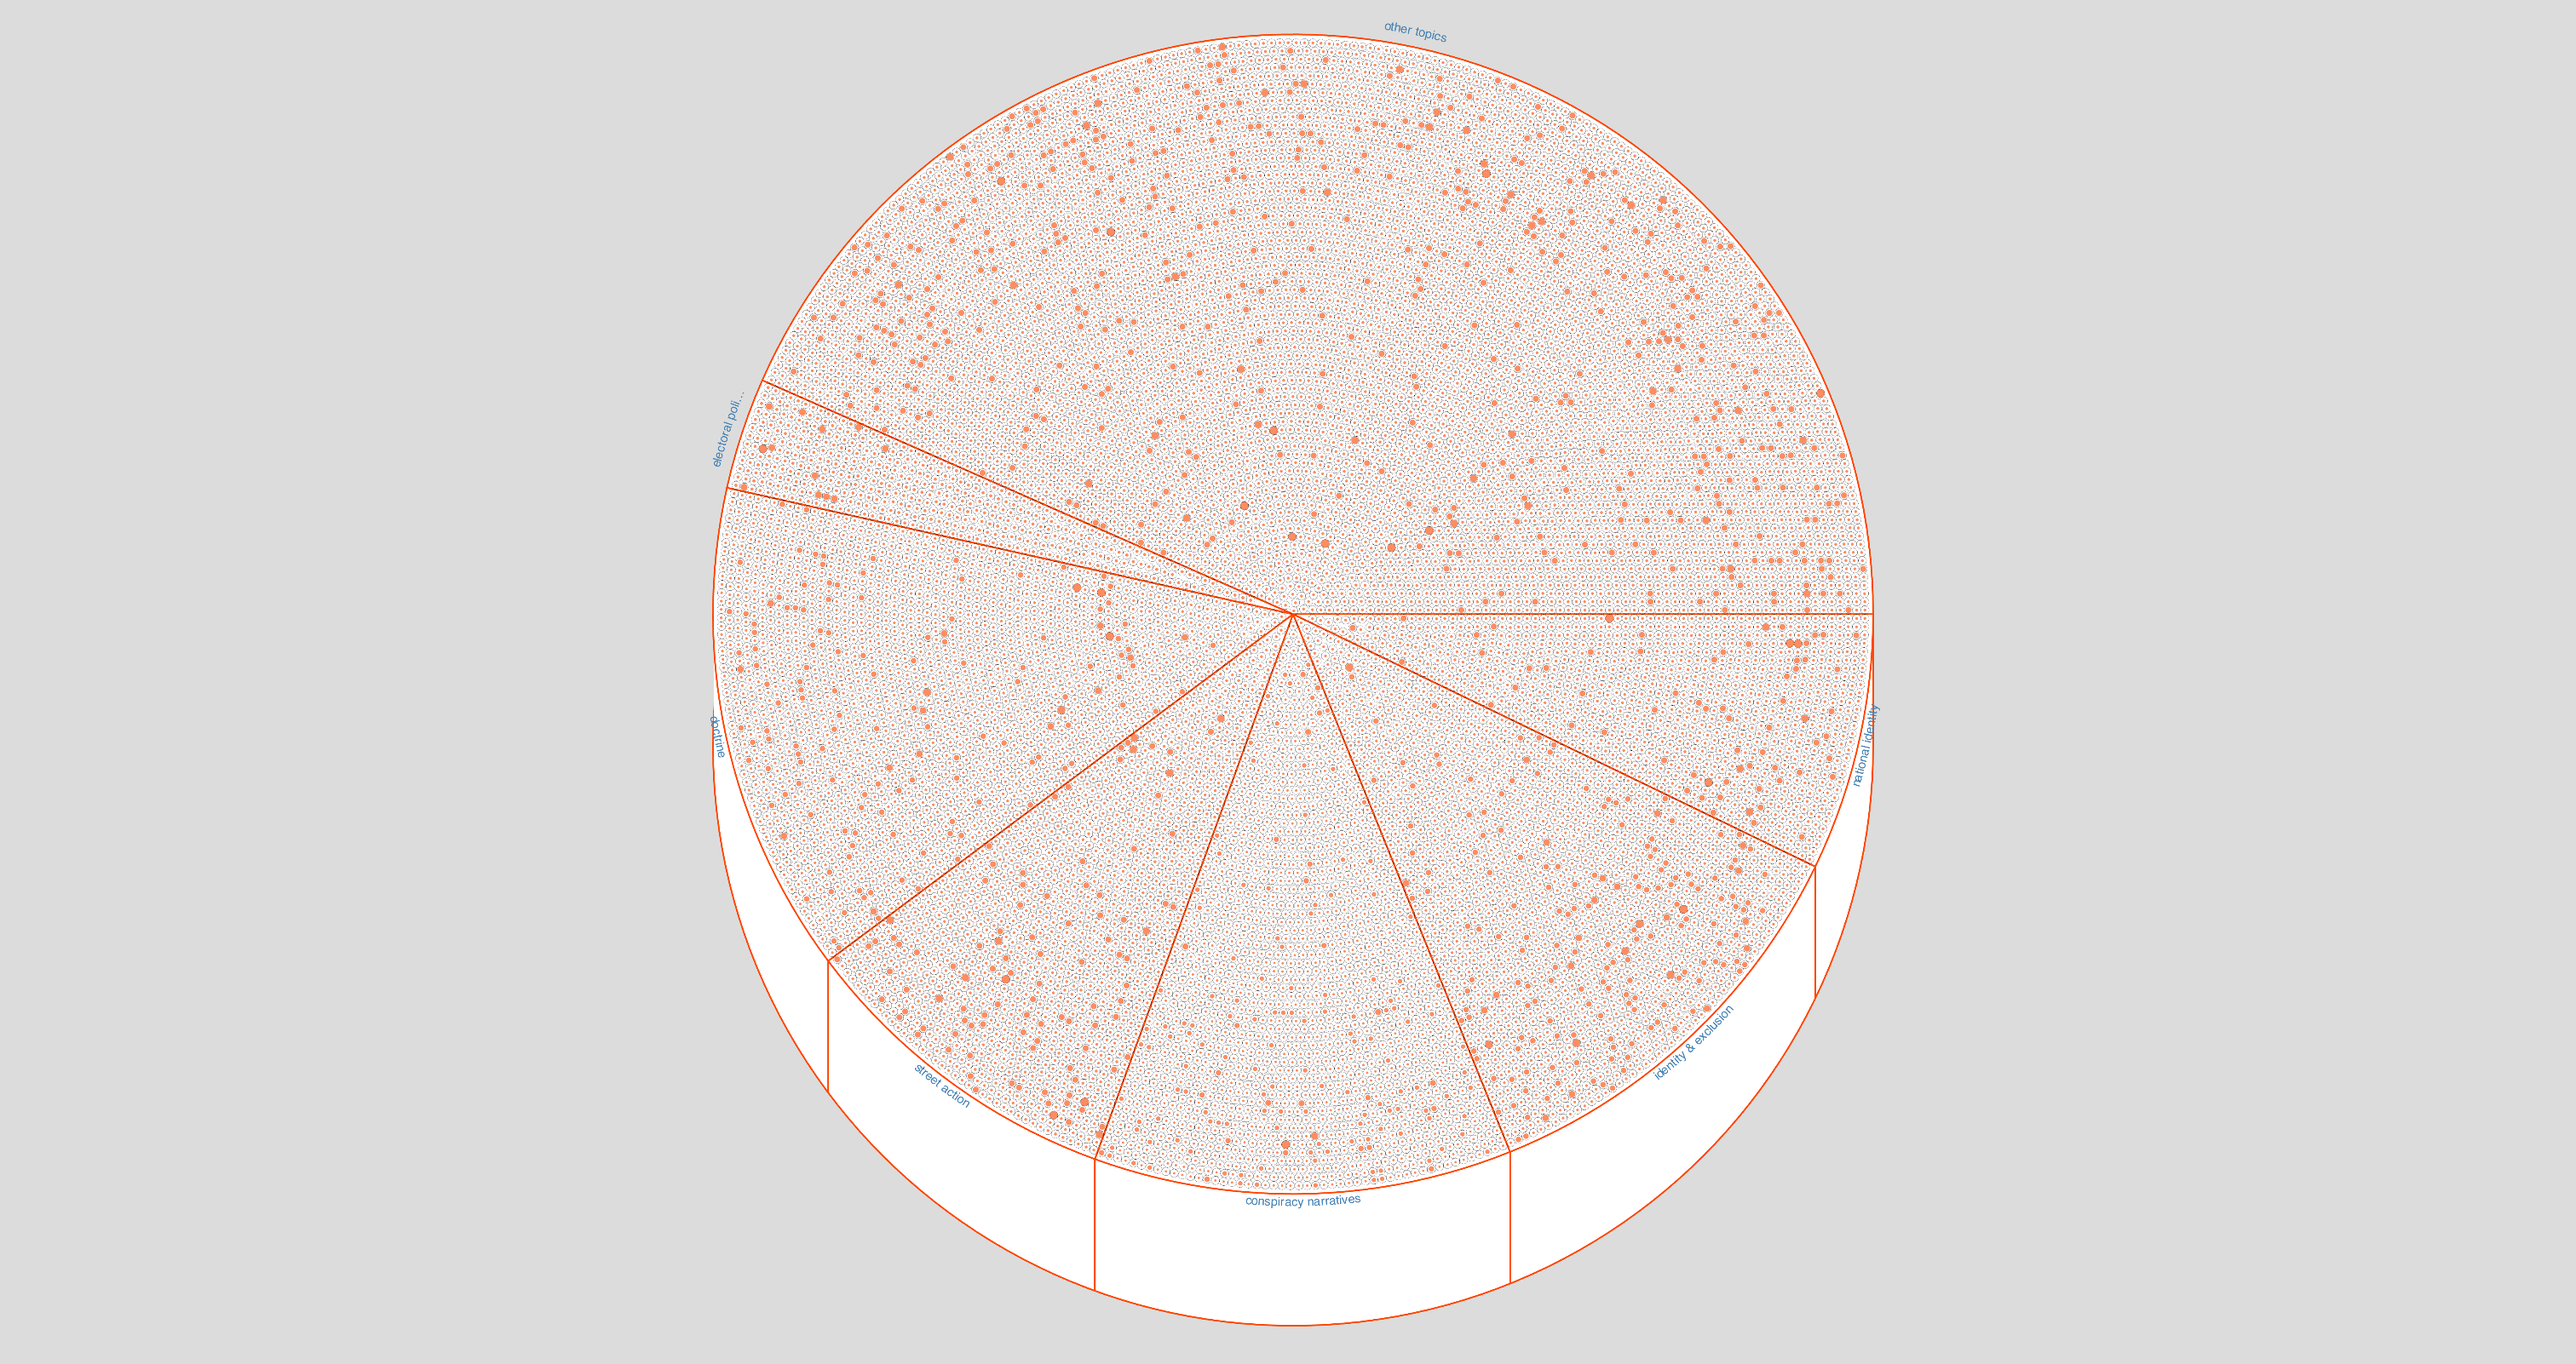
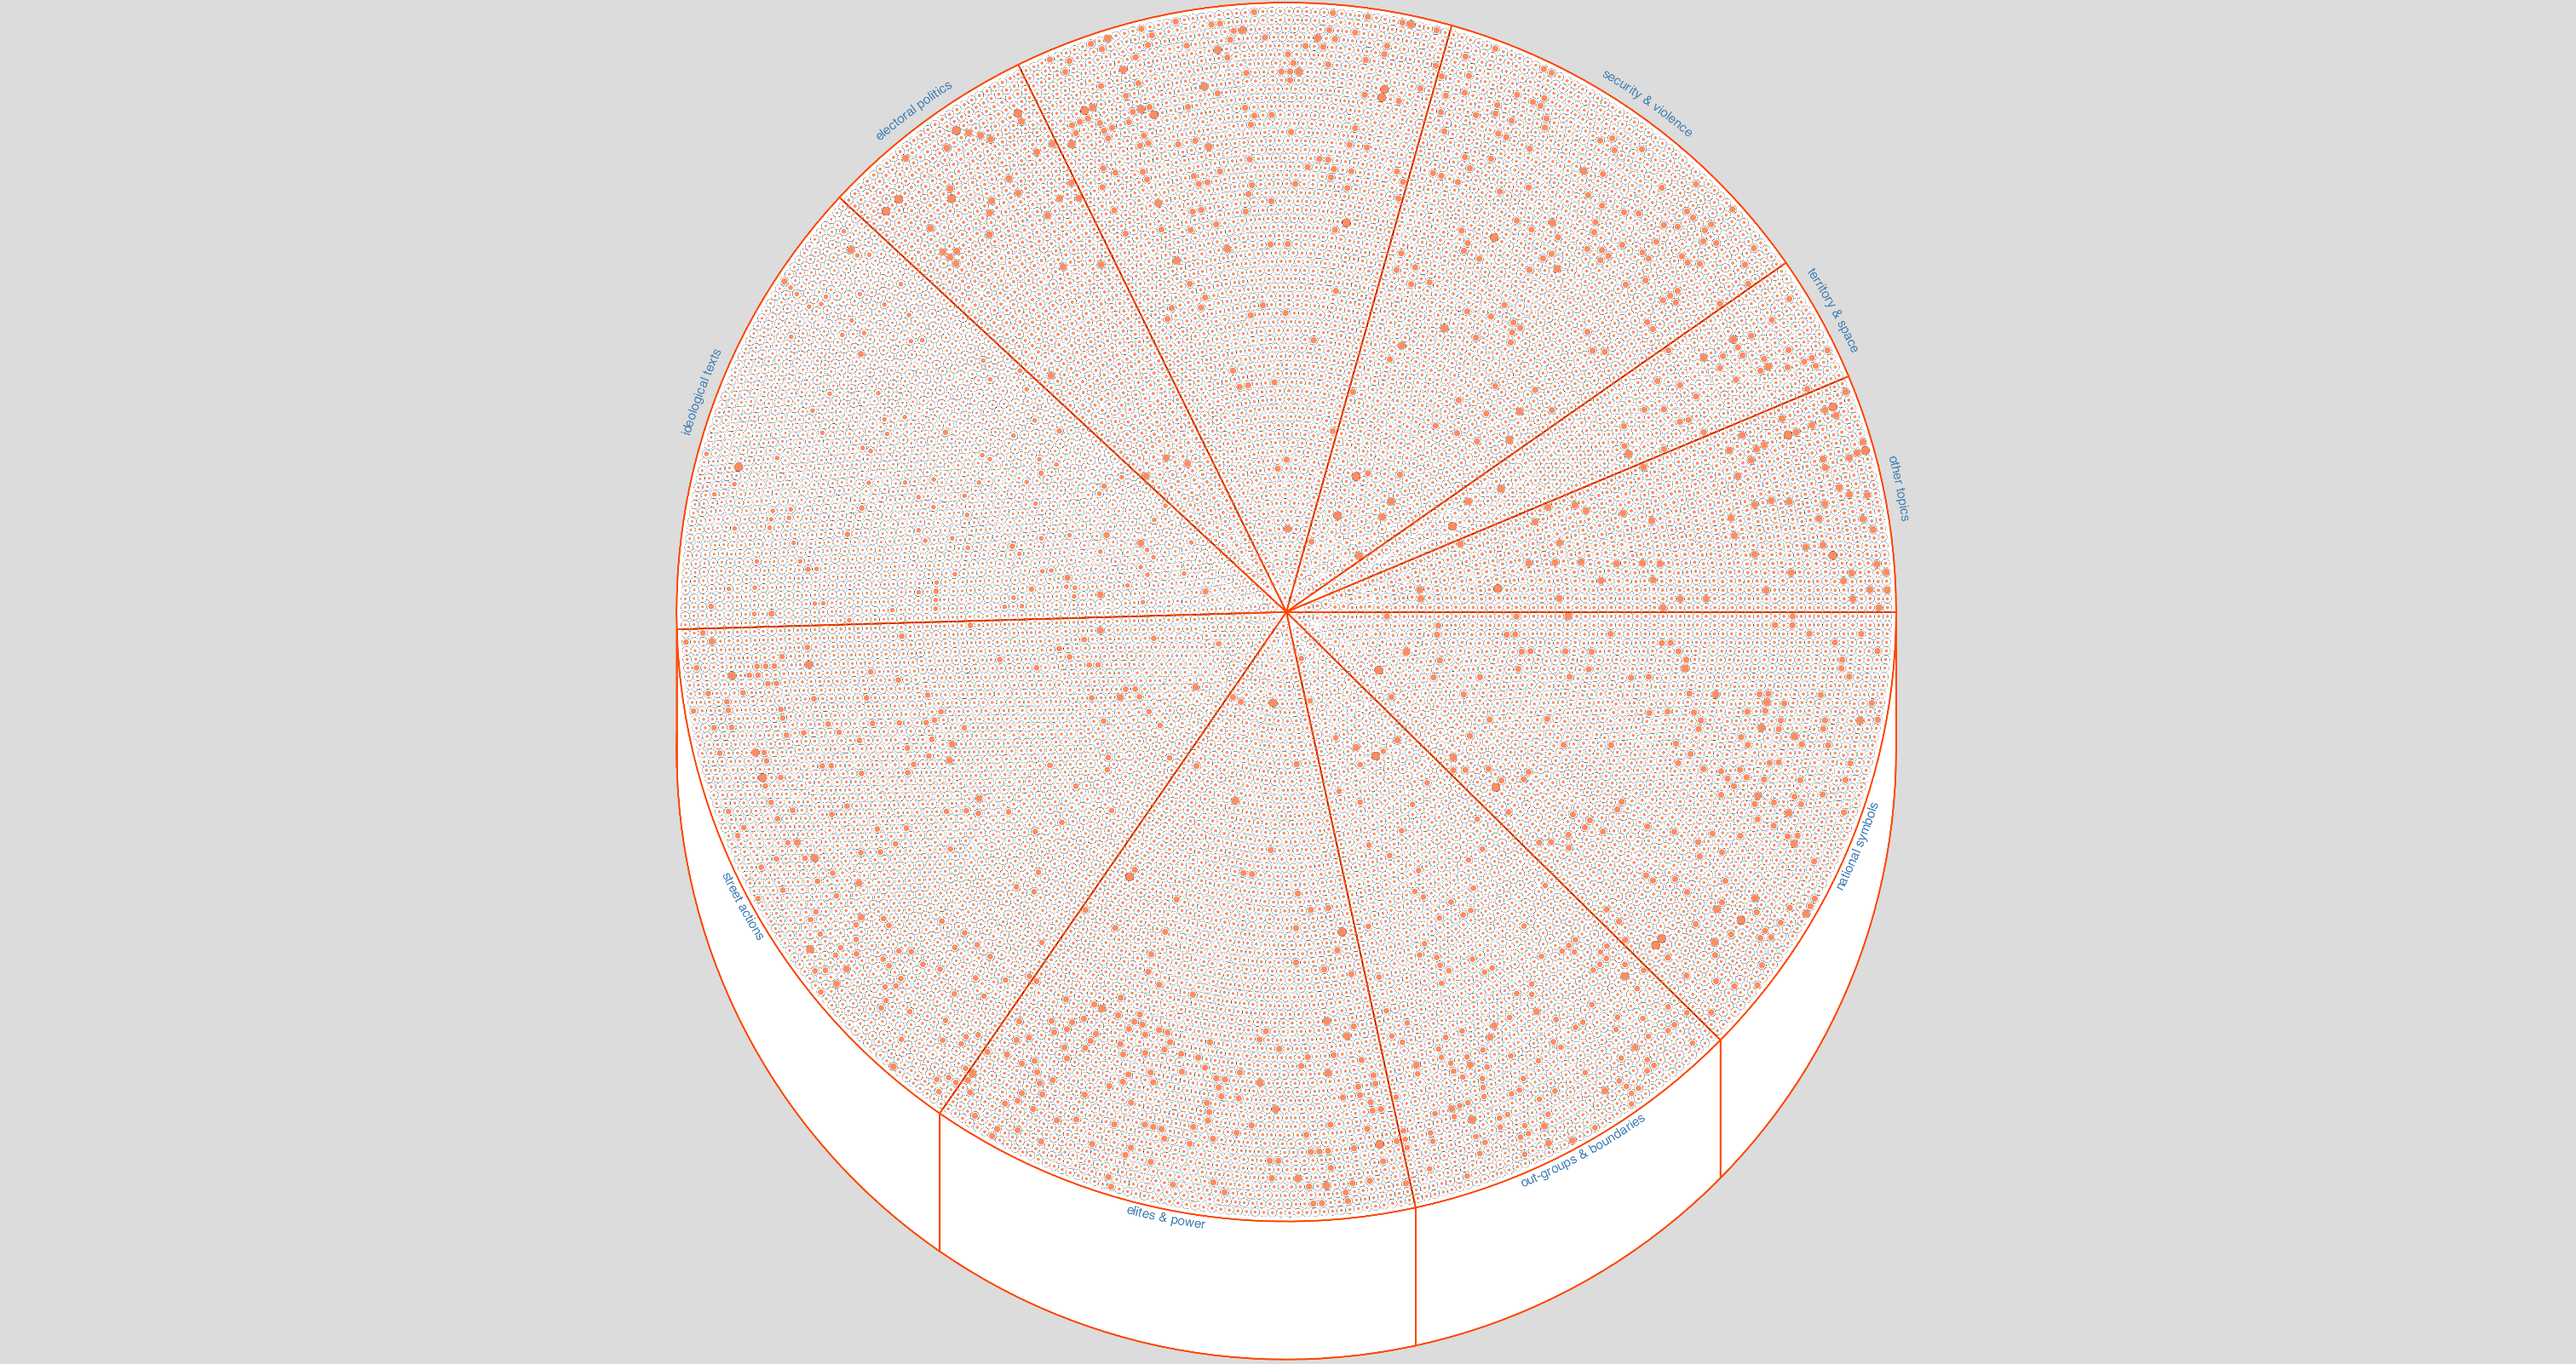
custom cover

Changed region(s): [[0.2487, 0.0, 0.746, 0.9988]]

diff --git a/app/src/routes/+page.svelte b/app/src/routes/+page.svelte
@@ -63,11 +63,11 @@
           style={`opacity:${coverIndex === i ? 1 : 0};transition:opacity ${fadeDuration}ms ease-in-out;`}
         >
           {#each set.items as item (item.src)}
-            <div class="coverPane">
+            <div class="coverPane {item.key}">
               <img
                 src={item.src}
                 alt={item.alt}
-                class="coverImg"
+                class="coverImg {item.key}"
                 loading="lazy"
                 decoding="async"
               />
@@ -395,6 +395,14 @@
     width: 100%;
     height: 100%;
     object-fit: cover;
+  }
+  .coverImg.pie {
+    background-color: gainsboro;
+  }
+
+  img.pie {
+    object-fit: contain;
+    transform: scale(1.8);
   }
 
   .custom-shadow {
